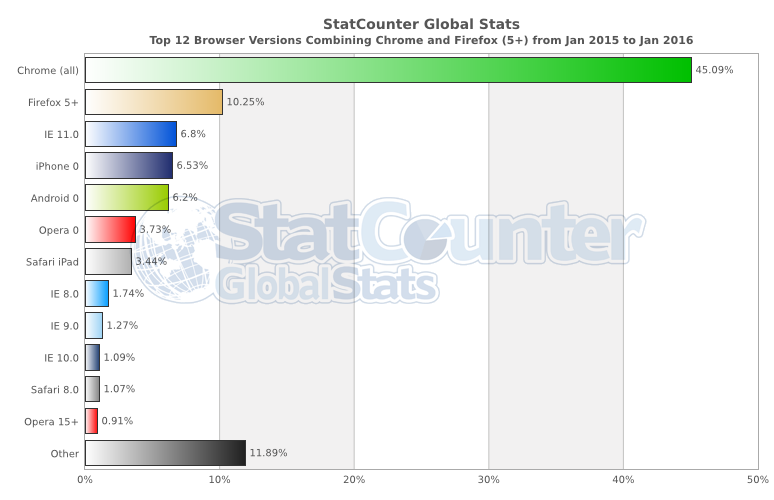
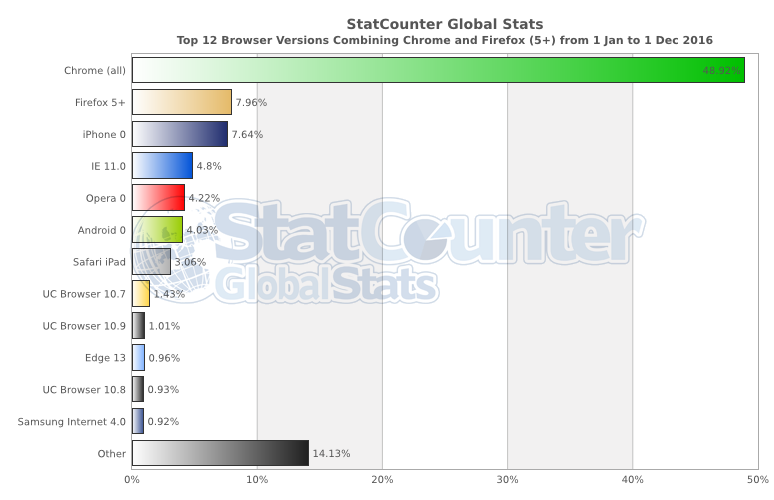
updates

diff --git a/practice/making-fd.md b/practice/making-fd.md
@@ -6,7 +6,7 @@
 
 How exactly does one become a front-end developer? Well, it's complicated. Still today you can't go to college and expect to graduate with a degree in front-end engineering. And, I rarely hear of or meet front-end developers who suffered through what is likely a deprecated computer science degree or graphic design degree to end up writing HTML, CSS, and JavaScript professionally. From my perspective, most of the people working on the front-end today, generally seem to be self taught or come from a non accredited program, course, bootcamp, or class. 
 
-If you were to set out today to become a front-end developer I would loosely strive to follow the process outlined below. The process assumes you are your own best teacher.
+If you were to set out today to become a front-end developer I would loosely strive to follow the process outlined below (Part two dives into more details on learning resources).
 
 1. Learn, roughly, how the web works. Make sure you know the "what" and "where" of Domains, DNS, URLs, HTTP, networks, browsers, servers/hosting, databases, JSON, data APIs, HTML, CSS, DOM, and JavaScript. The goal is to make sure you loosely know how it all works together and exactly what each part is doing. Focus on the high level outlines for front-end architectures. Start with simple web pages and briefly study [front-end applications (aka SPAs)](http://developer.telerik.com/featured/front-end-driven-applications-new-approach-applications/).
 2. Learn HTML, CSS, Accessibility, and SEO.

diff --git a/learning/browsers.md b/learning/browsers.md
@@ -12,9 +12,9 @@
 3. [Internet Explorer](http://windows.microsoft.com/en-us/internet-explorer/download-ie) (engine: [Trident](https://en.wikipedia.org/wiki/Trident_%28layout_engine%29) + [Chakra](https://en.wikipedia.org/wiki/Chakra_%28JScript_engine%29))
 4. [Safari](https://www.apple.com/safari/) (engine: [Webkit](https://en.wikipedia.org/wiki/WebKit) + [SquirrelFish](https://trac.webkit.org/wiki/SquirrelFish))
 
-![](../images/statcounter.png "http://gs.statcounter.com/#all-browser_version_partially_combined-ww-monthly-201501-201601-bar")
+![](../images/statcounter.png "http://gs.statcounter.com/#all-browser_version_partially_combined-ww-daily-20160101-20161201-bar")
 
-<cite>Image source: <a href="http://gs.statcounter.com/#all-browser_version_partially_combined-ww-monthly-201408-201508-bar">http://gs.statcounter.com/#all-browser_version_partially_combined-ww-monthly-201501-201601-bar</a></cite>
+<cite>Image source: <a href="http://gs.statcounter.com/#all-browser_version_partially_combined-ww-daily-20160101-20161201-bar">http://gs.statcounter.com/#all-browser_version_partially_combined-ww-monthly-201501-201601-bar</a></cite>
 
 ##### Evolution of Browsers & Web Technologies (i.e., APIs)
 

diff --git a/learning/internet.md b/learning/internet.md
@@ -4,6 +4,7 @@
 
 ><cite>&#8212; [Wikipedia](https://en.wikipedia.org/wiki/Internet)</cite>
 
+* [What is the Internet?](https://www.youtube.com/watch?v=Dxcc6ycZ73M) [watch]
 * [How Does the Internet work](http://www.w3.org/wiki/How_does_the_Internet_work) - W3C [read]
 * [How Does the Internet Work?](http://web.stanford.edu/class/msande91si/www-spr04/readings/week1/InternetWhitepaper.htm) - Stanford Paper [read]
 * [How the Internet Works](https://www.khanacademy.org/partner-content/code-org/internet-works) [watch]
